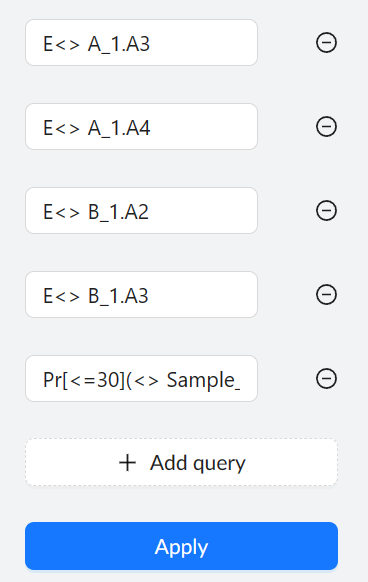
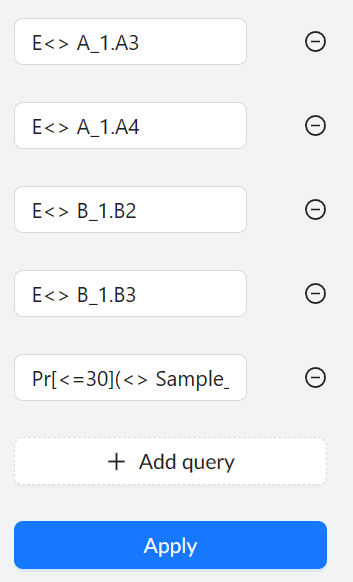
Update README.md

diff --git a/README.md b/README.md
@@ -44,6 +44,8 @@ We've provided a simple example to show how to build and verify an SMC model usi
 
 
 2. Add some queries to verify our model. Click `Verification` and input the following queries (as shown in Figure 2):
+> Please note that `system_name` = `template_name` + '_1'. For instance, the composite model `B`'s system_name is `B_1`, so you need use `B_1` in query's formula like `E<> B_1.B2` but not `E<> B.B2`
+
     - ``E<> A_1.A3``
     - ``E<> A_1.A4``
     - ``E<> B_1.B2``
